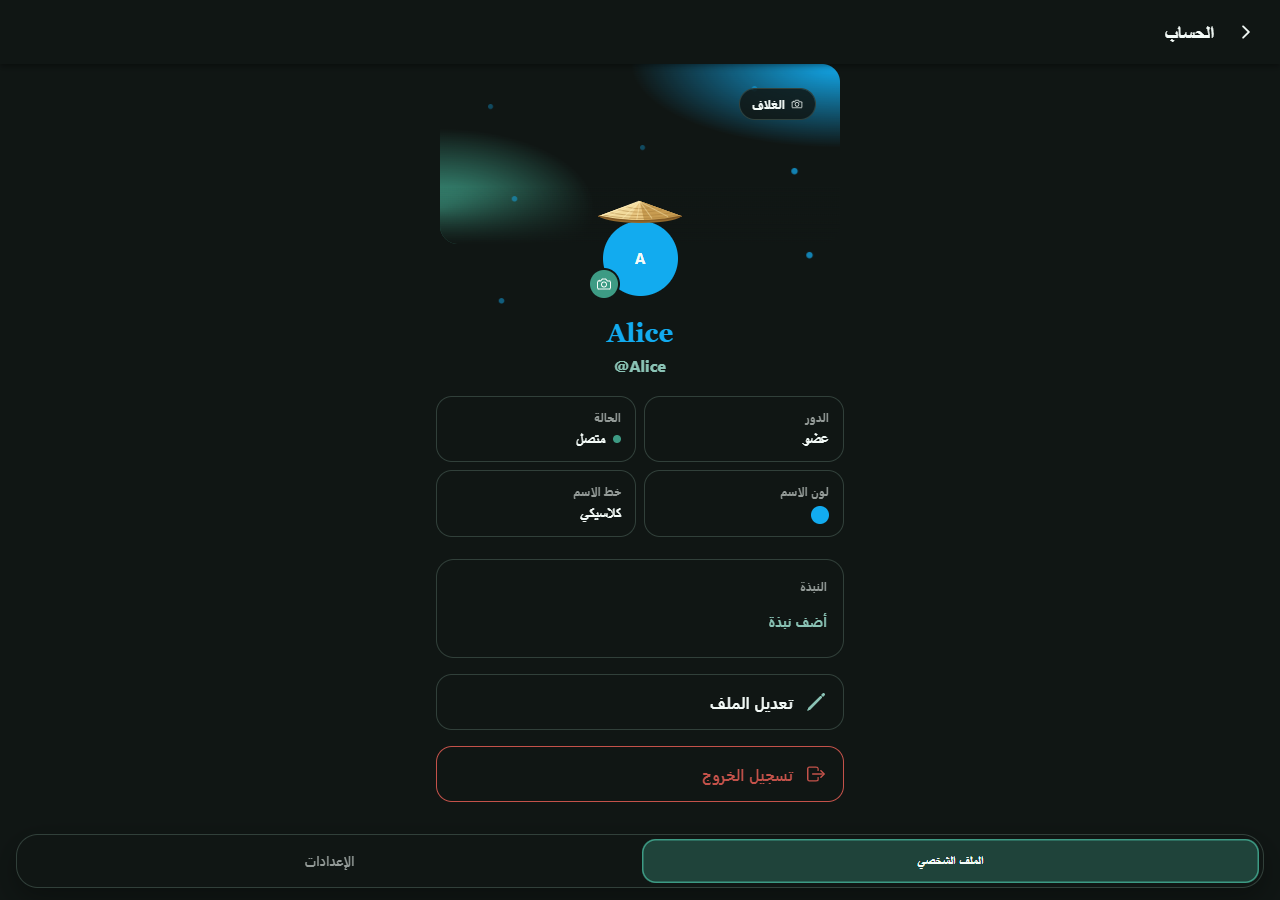
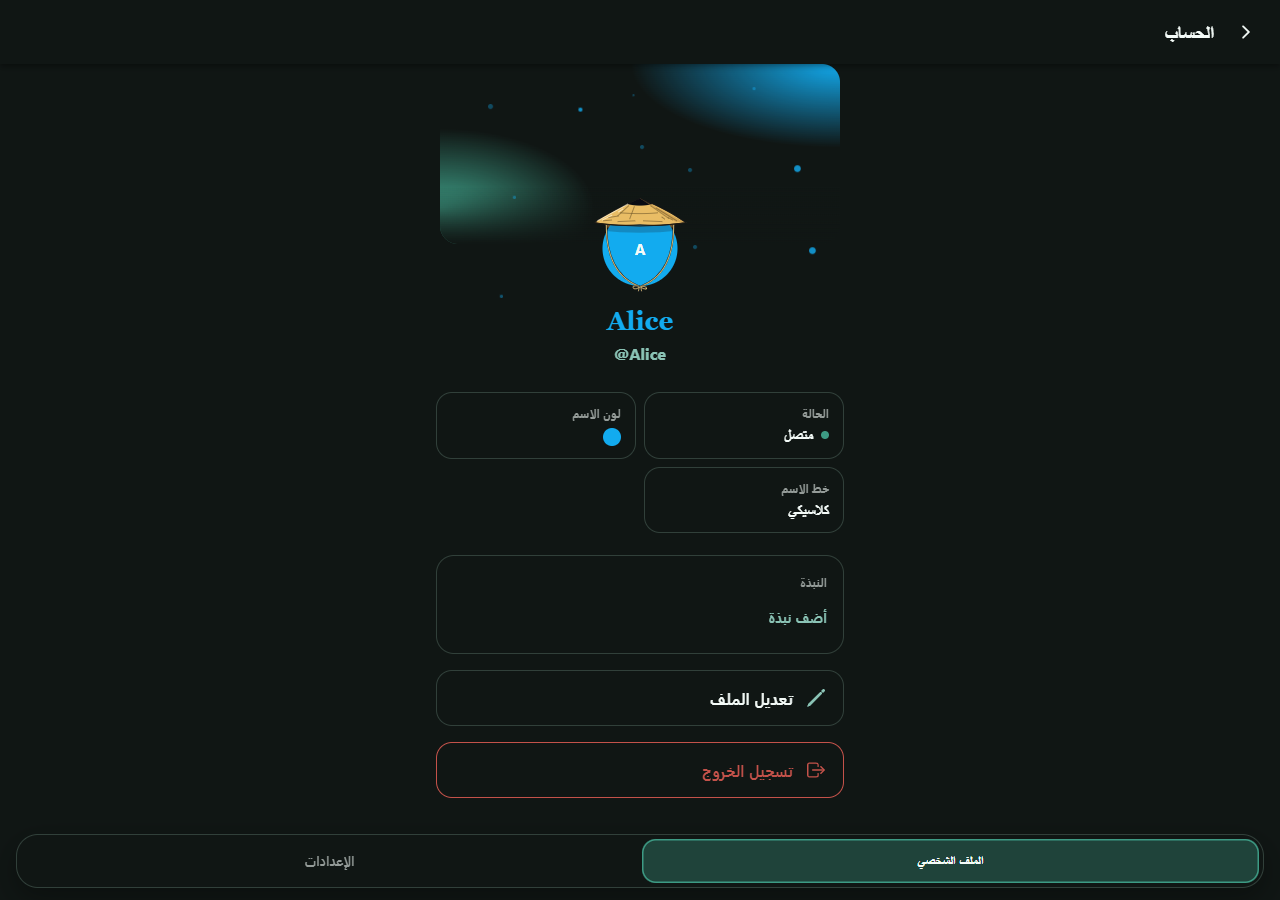
Match reference straw and rainy hats with layered animated SVG

diff --git a/src/components/common/ProfileCosmetics.css b/src/components/common/ProfileCosmetics.css
@@ -4,17 +4,22 @@
 .decoration-orbit::after { border:2px dashed var(--cosmetic-color); }
 .decoration-laurel::after { border:3px double #d1af67; border-left-color:var(--cosmetic-color); border-right-color:var(--cosmetic-color); }
 .decoration-prism::after { border-radius:34%; transform:rotate(45deg); border:2px solid var(--cosmetic-color); inset:16%; }
-.decoration-hat { align-items:flex-end; }
-.decoration-hat::after, .decoration-dragon::after { display:none; }
+.decoration-hat, .decoration-hat-rain { align-items:flex-end; }
+.decoration-hat::after, .decoration-hat-rain::after, .decoration-dragon::after { display:none; }
 .avatar-artwork { position:absolute; inset:0; width:100%; height:100%; pointer-events:none; overflow:hidden; z-index:1; }
-.hat-crown { transform:scaleY(.72); transform-origin:60px 0; }
-.decoration-hat.is-animated .hat-artwork { animation:profile-hat 5s ease-in-out infinite; transform-origin:50% 25%; }
+.decoration-hat > .avatar, .decoration-hat-rain > .avatar { position:absolute; bottom:6%; left:50%; transform:translateX(-50%); z-index:1; }
+.hat-back-artwork { z-index:0; }
+.hat-artwork { z-index:2; }
+.decoration-hat.is-animated .hat-artwork, .decoration-hat.is-animated .hat-back-artwork, .decoration-hat-rain.is-animated .hat-artwork, .decoration-hat-rain.is-animated .hat-back-artwork { animation:profile-hat 5s ease-in-out infinite; transform-origin:50% 28%; }
+.decoration-hat-rain.is-animated .hat-rain-back { animation:hat-rain 3.6s linear infinite; }
+.decoration-hat-rain.is-animated .hat-rain-front { animation:hat-rain 2.8s linear infinite; animation-delay:-1.4s; }
+@keyframes hat-rain { 0% { transform:translateY(-6px); opacity:0; } 25%,75% { opacity:.28; } 100% { transform:translateY(9px); opacity:0; } }
 .decoration-dragon.is-animated .dragon-artwork { animation:profile-dragon 7s ease-in-out infinite; }
 .decoration-dragon.is-animated .dragon-spark { animation:profile-ember 2.8s ease-in-out infinite; transform-origin:114px 55px; }
 .decoration-dragon.is-animated .spark-far { animation-duration:3.6s; animation-delay:-1.4s; transform-origin:11px 73px; }
 .decoration-orbit.is-animated::after { animation:profile-orbit 24s linear infinite; }
 .decoration-prism.is-animated::after { animation:profile-prism 6s ease-in-out infinite; }
-@keyframes profile-hat { 25% { transform:rotate(-3deg) translateY(-1%); } 75% { transform:rotate(3deg) translateY(-1%); } }
+@keyframes profile-hat { 25% { transform:rotate(-1.5deg) translateY(-.5%); } 75% { transform:rotate(1.5deg) translateY(-.5%); } }
 @keyframes profile-dragon { 30% { transform:rotate(-2deg); } 70% { transform:rotate(2deg); } }
 @keyframes profile-ember { 50% { opacity:.35; transform:translateY(-3px) scale(.8); } }
 @keyframes profile-orbit { to { transform:rotate(360deg); } }
@@ -161,3 +166,5 @@
 @keyframes petal-fall { 0% { transform:translateY(-16px) rotate(-10deg); opacity:0; } 14% { opacity:.9; } 100% { transform:translateY(86px) rotate(28deg); opacity:0; } }
 @keyframes ember-rise { 0% { transform:translate(0,8px); opacity:0; } 16% { opacity:.9; } 100% { transform:translate(8px,-72px); opacity:0; } }
 @media (prefers-reduced-motion:reduce) { .profile-effect.is-animated .cultivation-scene * { animation:none; } }
+
+@media (prefers-reduced-motion:reduce) { .avatar-frame.is-animated .hat-rain-back, .avatar-frame.is-animated .hat-rain-front { animation:none; } }

diff --git a/src/components/common/HatArtwork.tsx b/src/components/common/HatArtwork.tsx
@@ -1,0 +1,39 @@
+import { useId } from 'react';
+
+/** Two local SVG layers fitted to the avatar, based on the user's hat references. */
+export default function HatArtwork({ rain, layer }: { rain: boolean; layer: 'back' | 'front' }) {
+  const clip = `hat-face-${useId().replace(/:/g, '')}`;
+  const straw = rain ? '#252d65' : '#e9bd65';
+  const cord = rain ? '#8893c6' : '#efcf7c';
+  if (layer === 'back') return <svg className="avatar-artwork hat-back-artwork" viewBox="0 0 120 120" aria-hidden="true">
+    <path d="M14 31Q60 49 106 31L102 39Q60 52 18 39Z" fill={rain ? '#11172f' : '#6e542e'} />
+    {rain && <g className="hat-rain-back" stroke="#c9d6e9" strokeWidth=".6" opacity=".25">
+      <path d="M6 37V54M112 44V69M9 78V93M115 85V103M29 107V117" />
+    </g>}
+  </svg>;
+  return <svg className={`avatar-artwork hat-artwork${rain ? ' rainy-hat' : ''}`} viewBox="0 0 120 120" aria-hidden="true">
+    <defs><clipPath id={clip}><circle cx="60" cy="66" r="46.8" /></clipPath></defs>
+    <path clipPath={`url(#${clip})`} d="M10 31Q60 37 110 31V43Q60 49 10 43Z" fill="#151820" opacity=".22" />
+    <g className="hat-cords" fill="none" strokeLinecap="round" strokeLinejoin="round">
+      <path d="M18 33C17 73 29 101 59 113M102 33C103 73 91 101 61 113" stroke="#191a21" strokeWidth="2" />
+      <path d="M18 33C17 73 29 101 59 113M102 33C103 73 91 101 61 113" stroke={cord} strokeWidth="1.1" />
+      <path d="M59 113C47 110 51 120 59 114C69 110 72 120 61 114M59 114L58 119M61 114L62 119" stroke="#161922" strokeWidth="2" />
+      <path d="M59 113C47 110 51 120 59 114C69 110 72 120 61 114M59 114L58 119M61 114L62 119" stroke={cord} strokeWidth=".9" />
+    </g>
+    <g className="hat-crown">
+      <path d="M3 33Q25 18 60 3Q93 16 117 33Q90 38 60 36Q25 38 3 33Z" fill={straw} stroke={rain ? '#f5f7ff' : '#151515'} strokeWidth={rain ? 1.6 : 1.2} strokeLinejoin="round" />
+      <path d="M60 3L44 10Q60 14 76 10Z" fill="#090b12" />
+      <path d={rain ? 'M55 12L46 35Q61 37 73 35L65 12Z' : 'M60 3L104 32L116 33Z'} fill={rain ? '#080b17' : '#b4853e'} opacity={rain ? 1 : .45} />
+      <g fill="none" stroke={rain ? '#0d1126' : '#675025'} strokeWidth=".7" strokeLinecap="round">
+        <path d="M20 27L33 25M35 21Q62 23 82 21M32 32L54 31M64 31L88 32M73 12L96 28M80 15L106 31M46 12L32 25M53 13L47 29" />
+        <path d="M95 27L101 30M14 31L25 30M87 26L91 29" />
+      </g>
+      <path d="M7 31L45 10M13 30L25 24M33 20L39 16" fill="none" stroke="#fff4d6" strokeWidth={rain ? 1.5 : 1.1} opacity=".85" />
+      <path d="M6 34Q60 41 113 34" fill="none" stroke={rain ? '#111529' : '#201a12'} strokeWidth="1.4" />
+      {rain && <path d="M106 30L112 34L109 36L103 31" fill="#a8b2db" stroke="#edf2ff" strokeWidth=".6" />}
+    </g>
+    {rain && <g className="hat-rain-front" fill="none" stroke="#d9e4f8" strokeWidth=".45" opacity=".28">
+      <path d="M24 44V61M43 57V75M66 40V57M91 66V82M31 86V102M101 95V112" />
+    </g>}
+  </svg>;
+}

diff --git a/src/components/common/AvatarArtwork.tsx b/src/components/common/AvatarArtwork.tsx
@@ -1,23 +1,14 @@
 import type { AvatarDecoration } from '../../lib/profileCosmetics';
+import HatArtwork from './HatArtwork';
 
 /** Original local vector artwork; no downloads, filters, or external animation runtime. */
-export default function AvatarArtwork({ kind }: { kind: AvatarDecoration }) {
+export default function AvatarArtwork({ kind, layer = 'front' }: { kind: AvatarDecoration; layer?: 'back' | 'front' }) {
+  if (kind === 'hat' || kind === 'hat-rain') return <HatArtwork rain={kind === 'hat-rain'} layer={layer} />;
+  if (layer === 'back') return null;
   if (kind === 'prism') return <svg className="avatar-artwork prism-artwork" viewBox="0 0 120 120" aria-hidden="true">
     <path d="M60 3L109 31V89L60 117L11 89V31Z" fill="none" stroke="var(--cosmetic-color)" strokeWidth="3" strokeLinejoin="round" />
     <path d="M11 31L60 3L109 31M11 89L60 117L109 89" fill="none" stroke="#c9eee4" strokeWidth="1.5" strokeLinejoin="round" />
     <path d="M58 2L60 8L62 2M108 87L102 89L108 91M12 29L18 31L12 33" fill="none" stroke="#f4f1cc" strokeWidth="2" />
-  </svg>;
-  if (kind === 'hat') return <svg className="avatar-artwork hat-artwork" viewBox="0 0 120 120" aria-hidden="true">
-    <g className="hat-crown">
-      <path d="M8 28Q32 15 60 2Q86 15 112 28Q103 39 60 40Q20 39 8 28Z" fill="#93692d" />
-      <path d="M8 28L60 2L112 28Q64 43 8 28Z" fill="#e7c47e" />
-      <path d="M60 2L112 28Q91 34 65 35Z" fill="#c79b50" />
-      <path d="M60 2L8 28Q31 33 46 33Z" fill="#f1d99a" />
-      <path d="M14 26Q60 38 107 26M23 22Q60 32 99 22M33 17Q60 25 87 17M43 12Q60 18 77 12" fill="none" stroke="#a57b39" strokeWidth="1.1" opacity=".65" />
-      <path d="M60 3L21 28M60 3L38 32M60 3L56 34M60 3L75 32M60 3L95 29" stroke="#fff0ba" strokeWidth="1" opacity=".65" />
-      <path d="M8 28Q60 45 112 28" fill="none" stroke="#805823" strokeWidth="2.5" />
-      <path d="M12 27L59 2" stroke="#fff2c1" strokeWidth="1.4" fill="none" />
-    </g>
   </svg>;
   if (kind === 'dragon') return <svg className="avatar-artwork dragon-artwork" viewBox="0 0 120 120" aria-hidden="true">
     <g className="dragon-body">

diff --git a/server/src/migrate.ts b/server/src/migrate.ts
@@ -6,7 +6,7 @@ export async function migrate(pool: Pool) {
     id text PRIMARY KEY,
     applied_at timestamptz NOT NULL DEFAULT now()
   )`);
-  for (const id of ['001_auth', '002_hardening', '003_directory', '004_profile', '005_avatar', '006_presence', '007_home', '008_inbox', '009_reactions', '010_chats', '011_inbox_unread', '012_message_images', '013_message_files', '014_room_profiles', '015_group_turns', '016_room_events', '017_turn_notice', '018_low_bandwidth', '019_google_subject', '020_turn_notifications', '021_owner_audit', '022_e2e', '023_e2e_backup_check', '024_push_tokens', '025_user_style', '026_profile_cosmetics', '027_profile_artwork', '028_cultivation_banners', '029_cultivation_domains', '030_spirit_particles', '031_message_media_disk', '032_custom_role']) {
+  for (const id of ['001_auth', '002_hardening', '003_directory', '004_profile', '005_avatar', '006_presence', '007_home', '008_inbox', '009_reactions', '010_chats', '011_inbox_unread', '012_message_images', '013_message_files', '014_room_profiles', '015_group_turns', '016_room_events', '017_turn_notice', '018_low_bandwidth', '019_google_subject', '020_turn_notifications', '021_owner_audit', '022_e2e', '023_e2e_backup_check', '024_push_tokens', '025_user_style', '026_profile_cosmetics', '027_profile_artwork', '028_cultivation_banners', '029_cultivation_domains', '030_spirit_particles', '031_message_media_disk', '032_custom_role', '033_reference_hats']) {
     const existing = await pool.query('SELECT id FROM schema_migrations WHERE id = $1', [id]);
     if ((existing.rowCount ?? 0) > 0) continue;
     const sql = await readFile(new URL(`./db/${id}.sql`, import.meta.url), 'utf8');

diff --git a/src/components/common/ProfileCosmetics.test.tsx b/src/components/common/ProfileCosmetics.test.tsx
@@ -87,3 +87,20 @@ it.each(['jade-lotus', 'heavenly-tribulation', 'jade-petals', 'spirit-embers'] a
   rerender(<ProfileEffect effect="none" color="#3d9b84" placement="banner" />);
   expect(container.querySelector('.profile-effect')).toBeNull();
 });
+
+it('layers both reference hats around the face without external assets and keeps receipt avatars plain', () => {
+  const { container, rerender } = render(<Avatar name="User" color="#3d9b84" decoration="hat-rain" size={80} animate />);
+  const frame = container.querySelector('.avatar-frame')!;
+  expect(frame.children[0].classList.contains('hat-back-artwork')).toBe(true);
+  expect(frame.children[1].classList.contains('avatar')).toBe(true);
+  expect(frame.children[2].classList.contains('hat-artwork')).toBe(true);
+  expect(container.querySelector('.hat-cords')).not.toBeNull();
+  expect(container.querySelector('.hat-rain-back')).not.toBeNull();
+  expect(container.querySelector('.hat-rain-front')).not.toBeNull();
+  expect(container.querySelector('image, animate, filter')).toBeNull();
+  rerender(<Avatar name="User" color="#3d9b84" decoration="hat" size={80} />);
+  expect(container.querySelector('.hat-cords')).not.toBeNull();
+  expect(container.querySelector('.hat-rain-front')).toBeNull();
+  rerender(<Avatar name="User" color="#3d9b84" decoration="hat-rain" size={18} />);
+  expect(container.querySelector('.avatar-frame')).toBeNull();
+});

diff --git a/src/components/common/Avatar.tsx b/src/components/common/Avatar.tsx
@@ -16,7 +16,7 @@ type AvatarProps = {
 
 export default function Avatar({ name, color, size = 44, slot, src, decoration, animate = false }: AvatarProps) {
   const kind = size <= 24 ? 'none' : avatarDecoration(decoration);
-  const faceSize = kind === 'none' ? size : Math.round(size * (kind === 'hat' ? 0.78 : kind === 'dragon' ? 0.74 : 0.82));
+  const faceSize = kind === 'none' ? size : Math.round(size * ((kind === 'hat' || kind === 'hat-rain') ? 0.78 : kind === 'dragon' ? 0.74 : 0.82));
   const face = (
     <span
       slot={kind === 'none' ? slot : undefined}
@@ -28,5 +28,5 @@ export default function Avatar({ name, color, size = 44, slot, src, decoration, 
     </span>
   );
   if (kind === 'none') return face;
-  return <span slot={slot} className={`avatar-frame decoration-${kind}${animate ? ' is-animated' : ''}`} style={{ width: size, height: size, minWidth: size, minHeight: size, '--cosmetic-color': color } as CSSProperties} aria-hidden="true">{face}<AvatarArtwork kind={kind} /></span>;
+  return <span slot={slot} className={`avatar-frame decoration-${kind}${animate ? ' is-animated' : ''}`} style={{ width: size, height: size, minWidth: size, minHeight: size, '--cosmetic-color': color } as CSSProperties} aria-hidden="true"><AvatarArtwork kind={kind} layer="back" />{face}<AvatarArtwork kind={kind} /></span>;
 }

diff --git a/server/src/profile.ts b/server/src/profile.ts
@@ -75,7 +75,7 @@ export function cleanCustomRoleColors(value: unknown) {
 }
 
 export function cleanCosmetic(value: unknown, kind: 'avatar' | 'profile') {
-  const choices = kind === 'avatar' ? ['none', 'orbit', 'laurel', 'prism', 'hat', 'dragon'] : ['none', 'aurora', 'stars', 'meteors', 'celestial-dragon', 'sword-domain', 'time-cicada', 'jade-lotus', 'heavenly-tribulation', 'jade-petals', 'spirit-embers'];
+  const choices = kind === 'avatar' ? ['none', 'orbit', 'laurel', 'prism', 'hat', 'hat-rain', 'dragon'] : ['none', 'aurora', 'stars', 'meteors', 'celestial-dragon', 'sword-domain', 'time-cicada', 'jade-lotus', 'heavenly-tribulation', 'jade-petals', 'spirit-embers'];
   if (value === null) return { ok: true as const, value: 'none' };
   return typeof value === 'string' && choices.includes(value) ? { ok: true as const, value } : { ok: false as const };
 }

diff --git a/server/test/profile.test.ts b/server/test/profile.test.ts
@@ -263,6 +263,8 @@ describe('profile', () => {
     assert.equal((await patch({ avatarDecoration: 'dragon', profileEffect: 'meteors' })).status, 200);
     assert.equal((await deps.repo.findUserById(member.id))?.avatarDecoration, 'dragon');
     assert.equal((await deps.repo.findUserById(member.id))?.profileEffect, 'meteors');
+    assert.equal((await patch({ avatarDecoration: 'hat-rain' })).status, 200);
+    assert.equal((await deps.repo.findUserById(member.id))?.avatarDecoration, 'hat-rain');
     for (const profileEffect of ['celestial-dragon', 'sword-domain', 'time-cicada', 'jade-lotus', 'heavenly-tribulation', 'jade-petals', 'spirit-embers']) {
       assert.equal((await patch({ profileEffect })).status, 200);
       assert.equal((await deps.repo.findUserById(member.id))?.profileEffect, profileEffect);

diff --git a/src/components/common/NameColorField.tsx b/src/components/common/NameColorField.tsx
@@ -33,7 +33,9 @@ export default function NameColorField({ color, colorInput, onColor, onInput, hi
             aria-label="رمز اللون"
             onChange={(event) => {
               onInput(event.target.value);
-              onColor(normalizeUserColorInput(event.target.value, color));
+              if (/^#?[0-9a-f]{6}$/i.test(event.target.value.trim())) {
+                onColor(normalizeUserColorInput(event.target.value, color));
+              }
             }}
           />
         </label>

diff --git a/src/lib/profileCosmetics.ts b/src/lib/profileCosmetics.ts
@@ -4,6 +4,7 @@ export const AVATAR_DECORATIONS = [
   { id: 'laurel', label: 'إكليل' },
   { id: 'prism', label: 'منشور' },
   { id: 'hat', label: 'قبعة الخيزران' },
+  { id: 'hat-rain', label: 'قبعة المطر' },
   { id: 'dragon', label: 'التنين' },
 ] as const;
 export const PROFILE_EFFECTS = [
